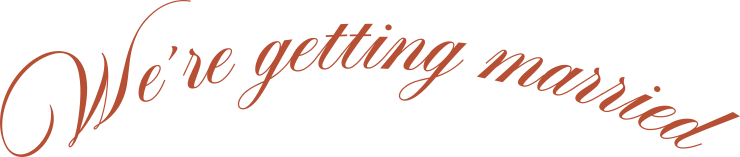
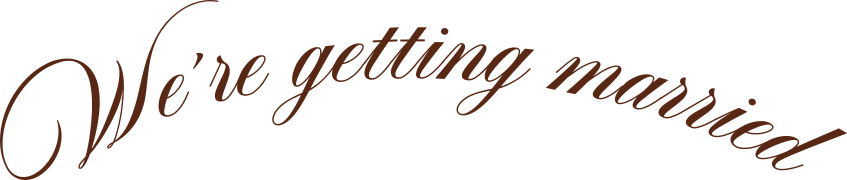
UPdate

Changed region(s): [[0.0, 0.1529, 1.0, 1.0], [0.1865, 0.051, 0.2176, 0.1783], [0.2176, 0.0, 0.2797, 0.051]]

diff --git a/thiepmoi.html b/thiepmoi.html
@@ -89,7 +89,7 @@
         <!-- Welcome Drinks -->
         <p class="event-label" data-animate="fade-in">WELCOME DRINKS</p>
         <p class="event-date" data-animate="fade-in">Monday 22nd February 2027</p>
-        <p class="event-time" data-animate="fade-in">07:30 - 09:00 PM</p>
+        <p class="event-time" data-animate="fade-in">07:30 PM - 09:00 PM</p>
         <p class="venue" data-animate="fade-in">Hèm Hội An</p>
         <a href="https://maps.app.goo.gl/y9BHnw44ovzV3ygx9" target="_blank" class="maps-btn"
           data-animate="fade-in">MAPS</a>

diff --git a/dist/css/main.css b/dist/css/main.css
@@ -440,8 +440,8 @@ nav .sidebar a {
   position: relative;
 }
 .hero .content img.text-img-01 {
-  max-width: 734px;
-  margin-top: 22%;
+  max-width: 847px;
+  margin-top: 20%;
 }
 .invite {
   width: 100%;
@@ -460,7 +460,7 @@ nav .sidebar a {
 }
 .invite .content .logo {
   position: absolute;
-  top: -6%;
+  top: -4.2%;
 }
 .invite .content .logo img {
   max-width: 171px;

diff --git a/assets/scss/sections/_hero.scss b/assets/scss/sections/_hero.scss
@@ -16,8 +16,8 @@
         position: relative;
 
         img.text-img-01 {
-            max-width: 734px;
-            margin-top: 22%;
+            max-width: 847px;
+            margin-top: 20%;
         }
 
         @media (max-width: 1282px) {}

diff --git a/assets/scss/sections/_invite.scss b/assets/scss/sections/_invite.scss
@@ -18,7 +18,7 @@
 
         .logo {
             position: absolute;
-            top: -6%;
+            top: -4.2%;
 
             img {
                 max-width: 171px;
